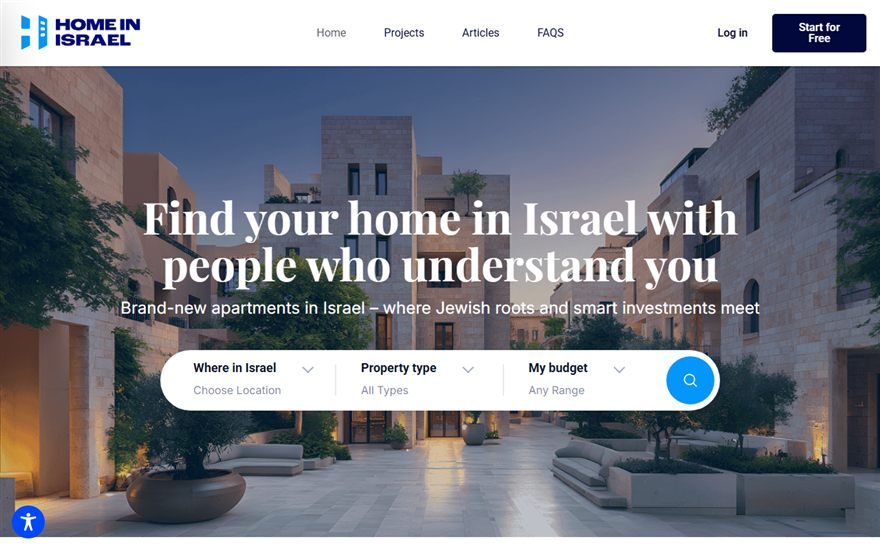
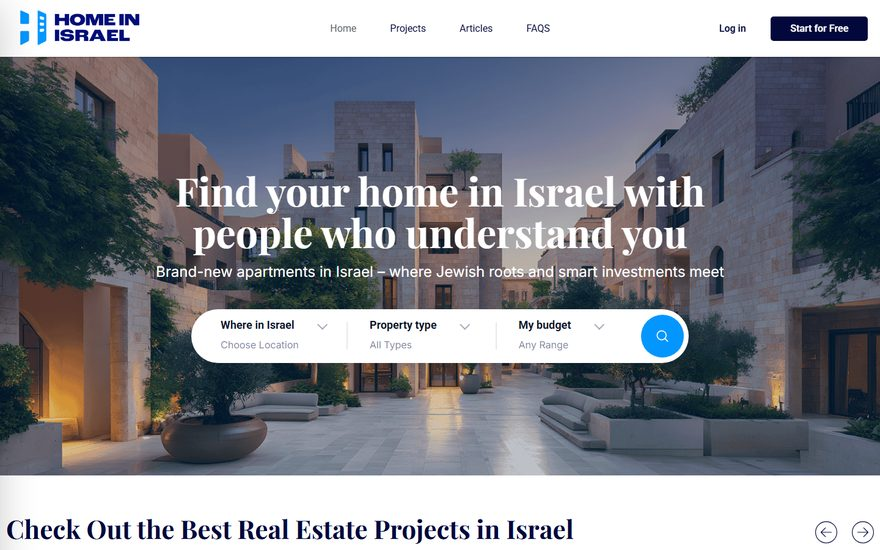
Fix project card names, tags, and two thumbnails
- Shikun Olam card renamed to Shikun & Binui, tagged Mehir LaMishtaken
- Electra Sirkin shortened to Electra
- Afeka BaShmura renamed to Y.H. Dimri, tagged Mehir LaMishtaken
- Sharbat Haifa tagged Mehir Matara
- Home in Israel and Dimri thumbnails recaptured at 1440px wide with
  the accessibility widget cropped out and the header CTA on one line

diff --git a/wwwroot/assets/main.js b/wwwroot/assets/main.js
@@ -44,18 +44,18 @@
       'projects.kicker': 'תיק עבודות',
       'projects.title': 'פרויקטים שעלו לאוויר',
       'projects.sub': 'חלק מהאתרים שבנינו ללקוחות שלנו — והרשימה ממשיכה לגדול.',
-      'pr1.title': 'שיכון עולם',
-      'pr1.tag': 'נדל״ן · אתר תדמית',
+      'pr1.title': 'שיכון ובינוי',
+      'pr1.tag': 'נדל״ן · מחיר למשתכן',
       'pr2.title': 'Home in Israel',
       'pr2.tag': 'נדל״ן · פורטל',
-      'pr3.title': 'אלקטרה — סירקין',
+      'pr3.title': 'אלקטרה',
       'pr3.tag': 'נדל״ן · אתר פרויקט',
-      'pr4.title': 'אפקה בשמורה',
-      'pr4.tag': 'נדל״ן · אתר פרויקט',
+      'pr4.title': 'י.ח. דמרי',
+      'pr4.tag': 'נדל״ן · מחיר למשתכן',
       'pr5.title': 'שתית משתכן',
       'pr5.tag': 'נדל״ן · מחיר למשתכן',
       'pr6.title': 'שרבט חיפה',
-      'pr6.tag': 'נדל״ן · אתר פרויקט',
+      'pr6.tag': 'נדל״ן · מחיר מטרה',
       'process.kicker': 'איך זה עובד',
       'process.title': 'מרעיון לשיגור בארבעה שלבים',
       'p1.title': 'אפיון',
@@ -112,18 +112,18 @@
       'projects.kicker': 'Our work',
       'projects.title': 'Projects we shipped',
       'projects.sub': 'A few of the websites we built for our clients — and the list keeps growing.',
-      'pr1.title': 'Shikun Olam',
-      'pr1.tag': 'Real estate · Brand site',
+      'pr1.title': 'Shikun & Binui',
+      'pr1.tag': 'Real estate · Mehir LaMishtaken',
       'pr2.title': 'Home in Israel',
       'pr2.tag': 'Real estate · Portal',
-      'pr3.title': 'Electra — Sirkin',
+      'pr3.title': 'Electra',
       'pr3.tag': 'Real estate · Project site',
-      'pr4.title': 'Afeka BaShmura',
-      'pr4.tag': 'Real estate · Project site',
+      'pr4.title': 'Y.H. Dimri',
+      'pr4.tag': 'Real estate · Mehir LaMishtaken',
       'pr5.title': 'Shatit Mishtaken',
       'pr5.tag': 'Real estate · Mehir LaMishtaken',
       'pr6.title': 'Sharbat Haifa',
-      'pr6.tag': 'Real estate · Project site',
+      'pr6.tag': 'Real estate · Mehir Matara',
       'process.kicker': 'How it works',
       'process.title': 'From idea to launch in four steps',
       'p1.title': 'Discovery',

diff --git a/wwwroot/index.html b/wwwroot/index.html
@@ -112,8 +112,8 @@
           <a class="project-card reveal" href="https://shikun-olam.co.il/" target="_blank" rel="noopener">
             <img src="/assets/projects/shikun-olam.jpg" alt="Shikun Olam website" loading="lazy" width="880" height="550">
             <div class="project-meta">
-              <h3 data-i18n="pr1.title">שיכון עולם</h3>
-              <p data-i18n="pr1.tag">נדל״ן · אתר תדמית</p>
+              <h3 data-i18n="pr1.title">שיכון ובינוי</h3>
+              <p data-i18n="pr1.tag">נדל״ן · מחיר למשתכן</p>
             </div>
           </a>
           <a class="project-card reveal d1" href="https://homeinisrael-il.com/" target="_blank" rel="noopener">
@@ -126,15 +126,15 @@
           <a class="project-card reveal d2" href="https://dev.electra-sirkin.pages.dev/" target="_blank" rel="noopener">
             <img src="/assets/projects/electra-sirkin.jpg" alt="Electra Sirkin website" loading="lazy" width="880" height="550">
             <div class="project-meta">
-              <h3 data-i18n="pr3.title">אלקטרה — סירקין</h3>
+              <h3 data-i18n="pr3.title">אלקטרה</h3>
               <p data-i18n="pr3.tag">נדל״ן · אתר פרויקט</p>
             </div>
           </a>
           <a class="project-card reveal" href="https://dimrimishtaken.com/%D7%90%D7%A4%D7%A7%D7%94-%D7%91%D7%A9%D7%9E%D7%95%D7%A8%D7%94/" target="_blank" rel="noopener">
             <img src="/assets/projects/afeka-bashmura.jpg" alt="Afeka BaShmura website" loading="lazy" width="880" height="550">
             <div class="project-meta">
-              <h3 data-i18n="pr4.title">אפקה בשמורה</h3>
-              <p data-i18n="pr4.tag">נדל״ן · אתר פרויקט</p>
+              <h3 data-i18n="pr4.title">י.ח. דמרי</h3>
+              <p data-i18n="pr4.tag">נדל״ן · מחיר למשתכן</p>
             </div>
           </a>
           <a class="project-card reveal d1" href="https://shatit-mishtaken.co.il/" target="_blank" rel="noopener">
@@ -148,7 +148,7 @@
             <img src="/assets/projects/sharbat-haifa.jpg" alt="Sharbat Haifa website" loading="lazy" width="880" height="550">
             <div class="project-meta">
               <h3 data-i18n="pr6.title">שרבט חיפה</h3>
-              <p data-i18n="pr6.tag">נדל״ן · אתר פרויקט</p>
+              <p data-i18n="pr6.tag">נדל״ן · מחיר מטרה</p>
             </div>
           </a>
         </div>